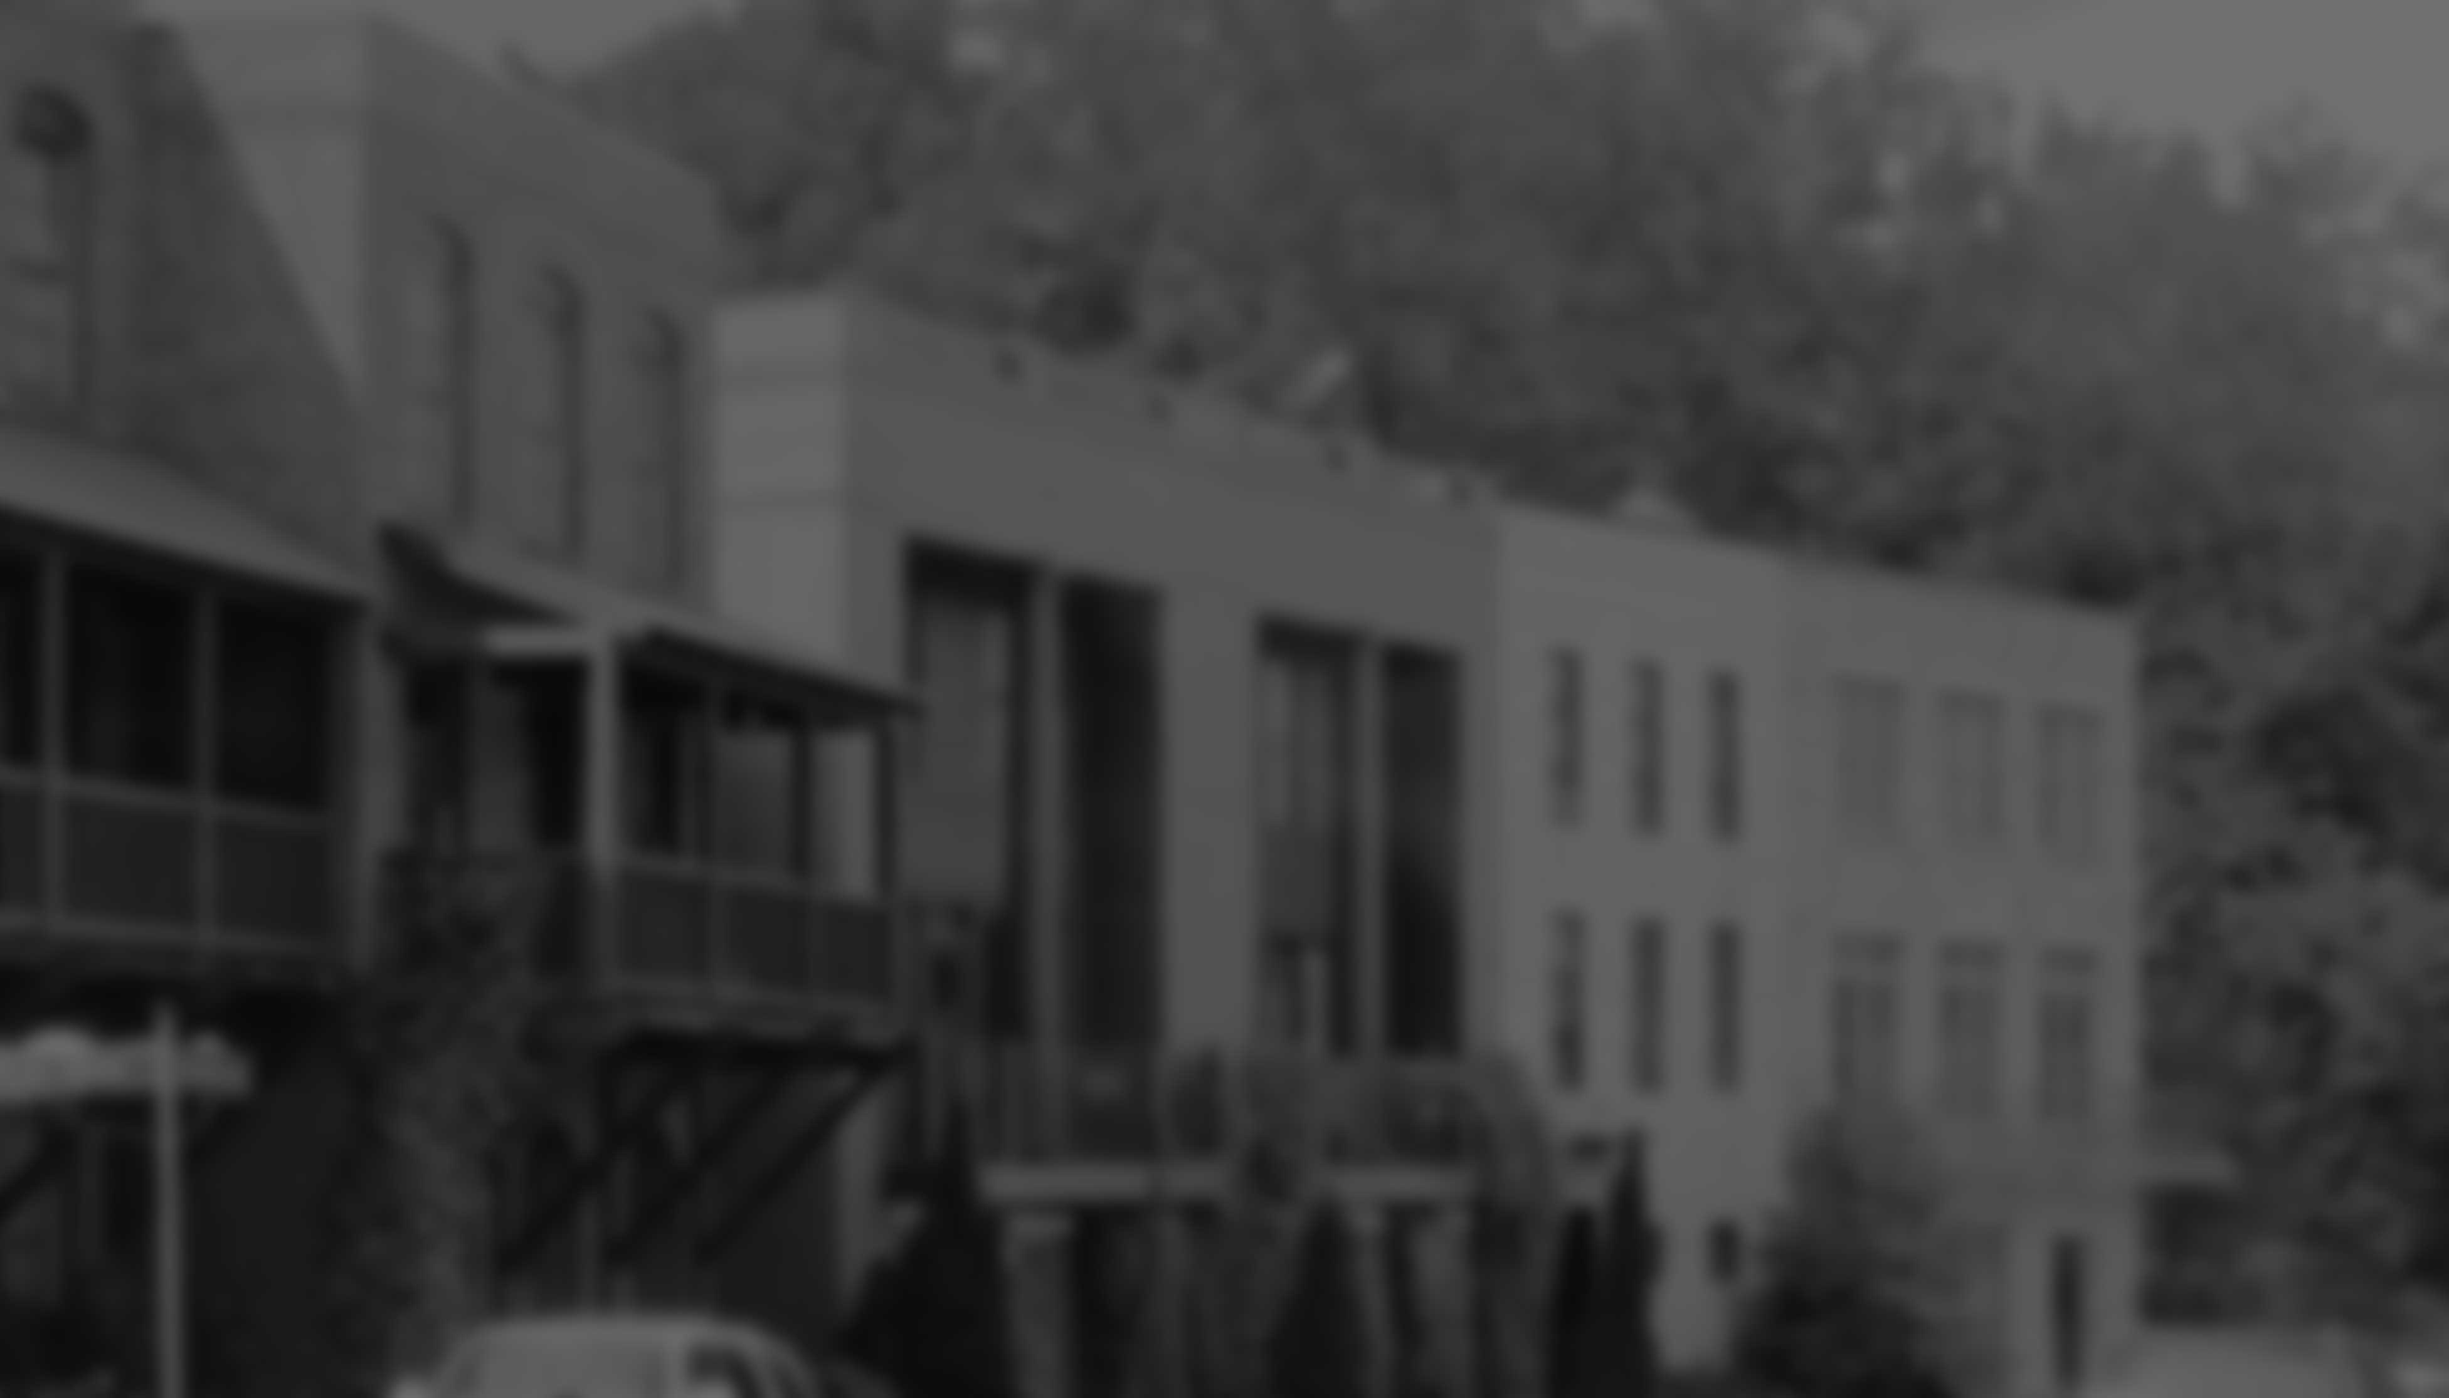
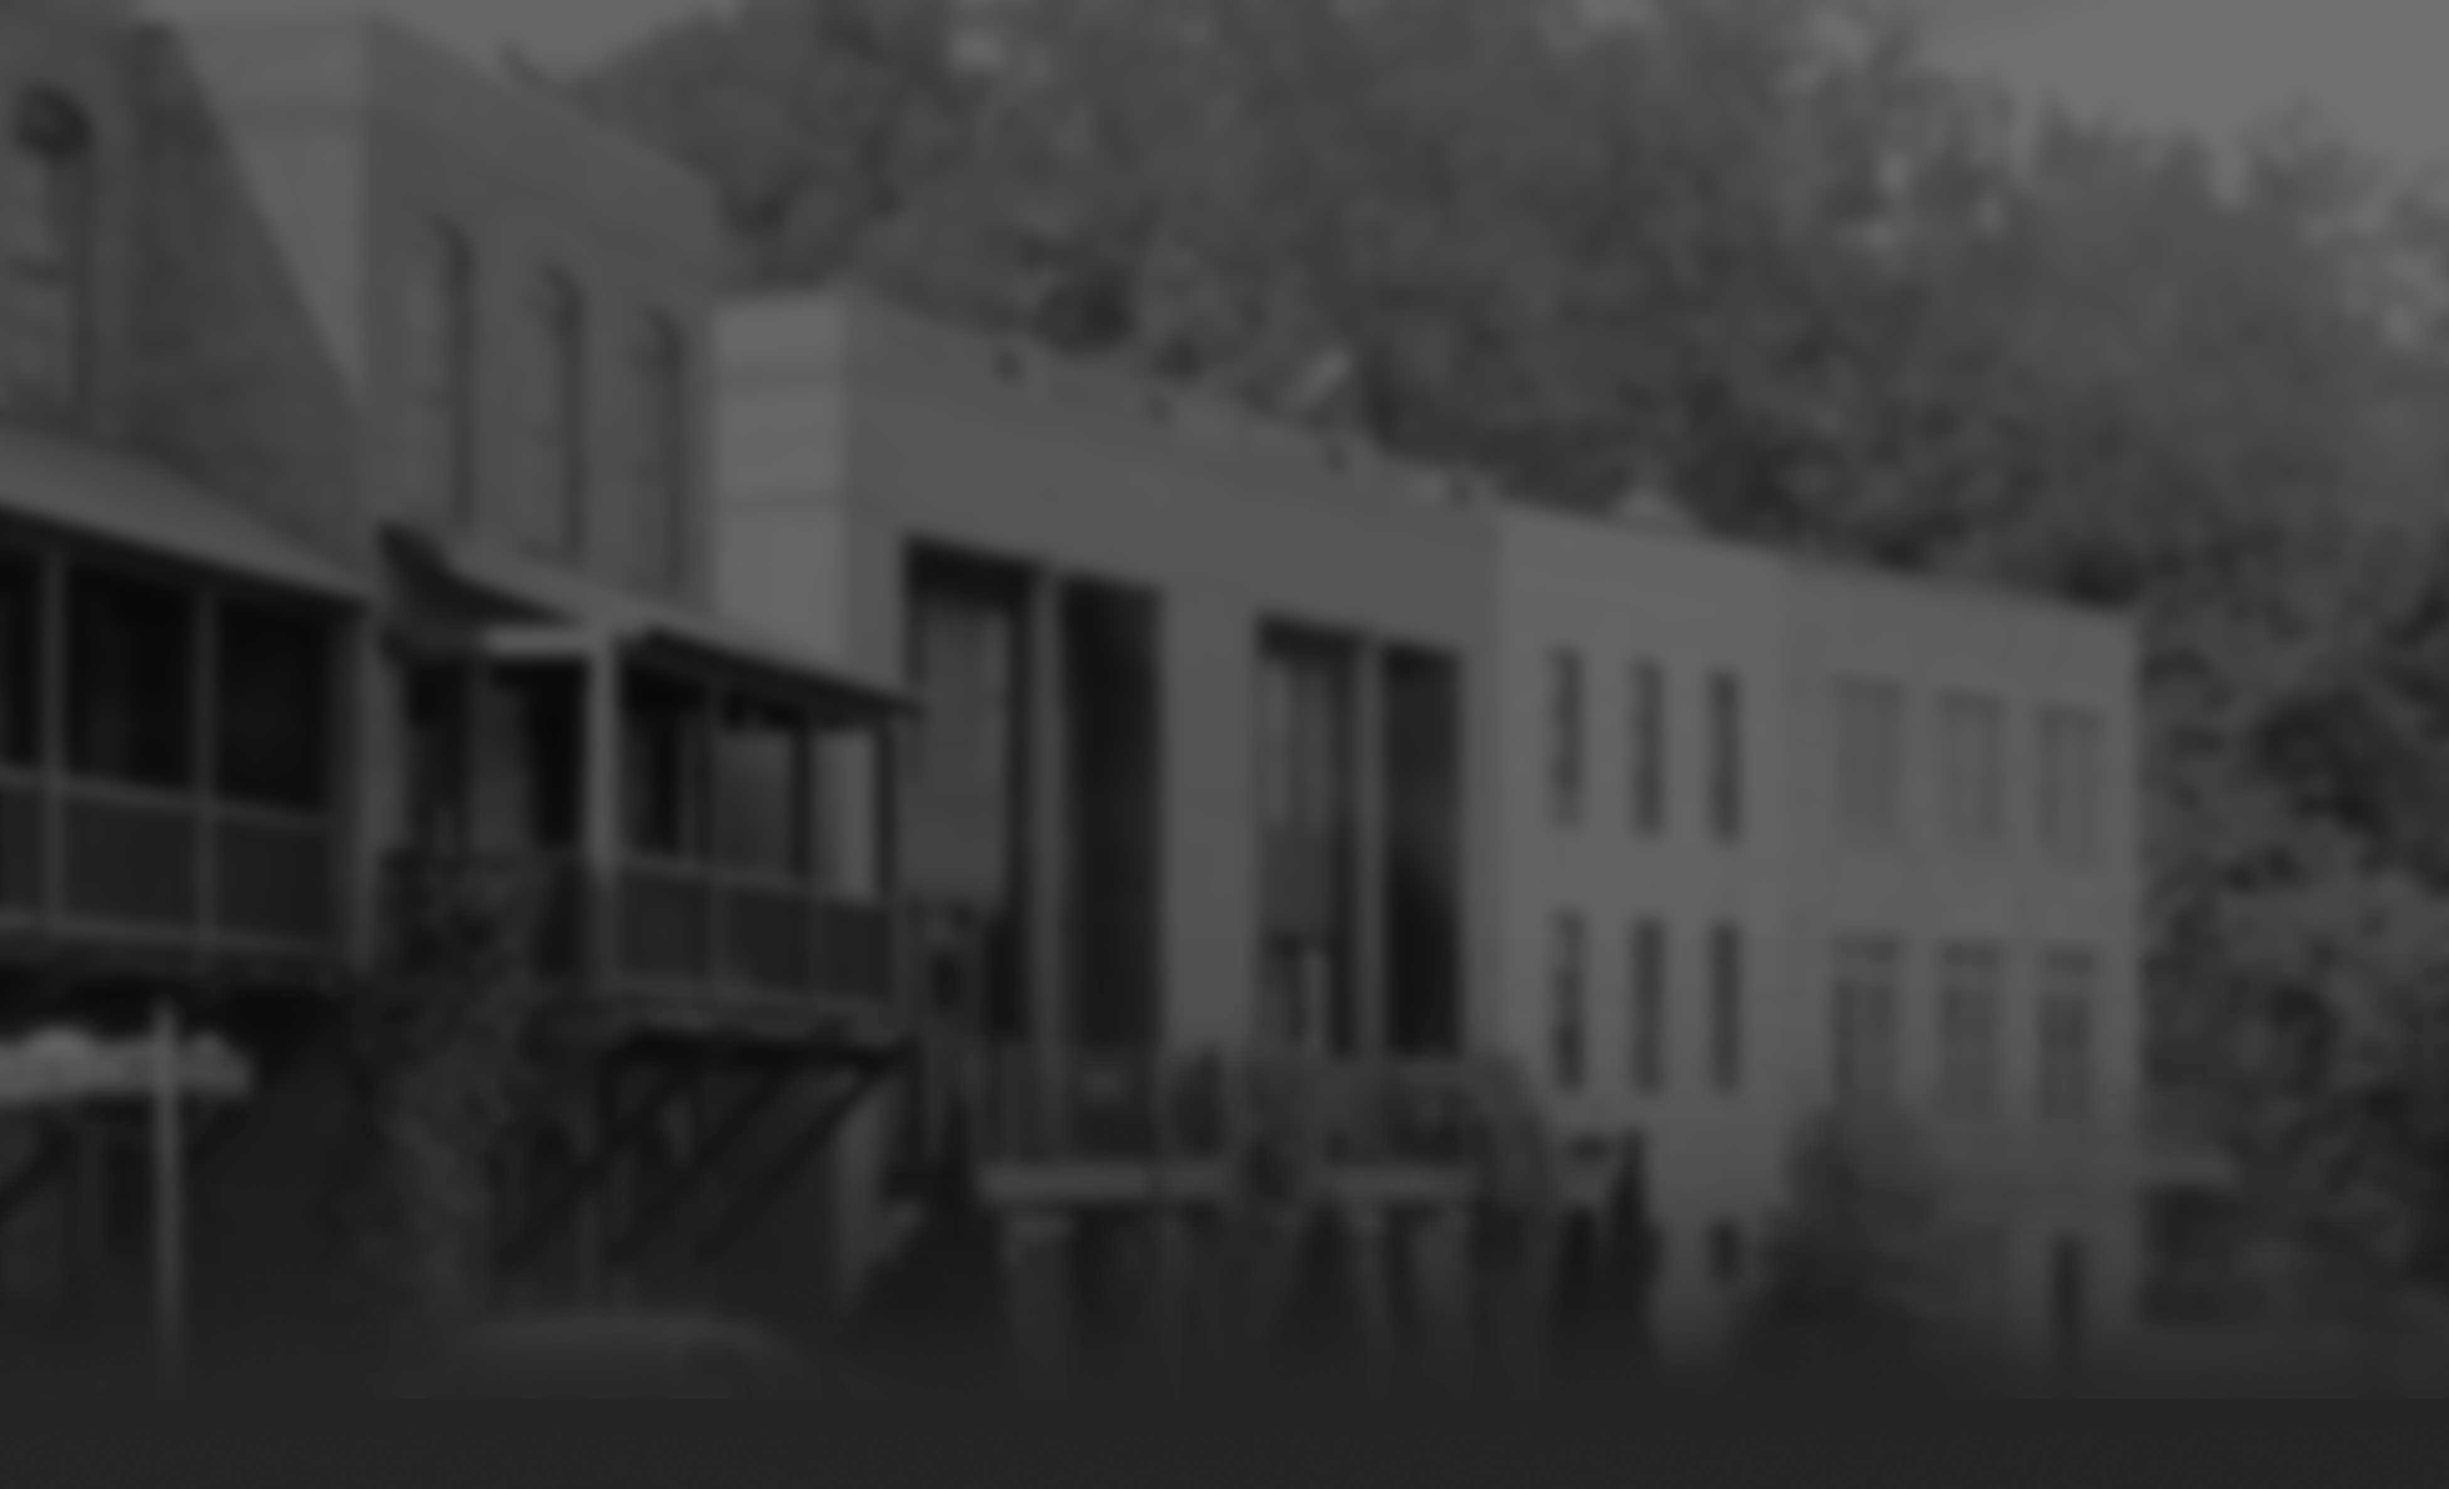
fixed viewport and layout of components and backgrounds

diff --git a/client/src/components/Base.jsx b/client/src/components/Base.jsx
@@ -7,7 +7,7 @@ import Auth from '../modules/Auth';
 
 const Base = ({ children }) => (
 
-  <div className="container">
+  <div>
 
     <Navbar inverse collapseOnSelect>
       <Navbar.Header>
@@ -24,7 +24,7 @@ const Base = ({ children }) => (
             </LinkContainer>
           )}
         </Nav>
-        <Nav pullRight style={{marginRight: '10px'}}>
+        <Nav pullRight>
           {Auth.isUserAuthenticated() && (
             <LinkContainer to="/logout">
               <NavItem eventKey={1}>Log Out</NavItem>
@@ -50,9 +50,10 @@ const Base = ({ children }) => (
 
 
 
-
-    <div className="jumbotron">
-      {children}
+    <div className="container">
+      <div className="jumbotron">
+        {children}
+      </div>
     </div>
   </div>
 );

diff --git a/client/stylesheets/base/_base.scss b/client/stylesheets/base/_base.scss
@@ -1,4 +1,12 @@
 body{
-  background: url(/images/serenbe-large-blur.jpg) no-repeat;
-  background-size: 150%;
+  background: #333333 url(/images/serenbe-mobile-blur.jpg) no-repeat center center fixed;
+  background-size: 120%;
+}
+
+/* Small Devices, Tablets */
+@media only screen and (min-width : 768px) {
+  body{
+    background: #222222 url(/images/serenbe-large-blur.jpg) no-repeat center center fixed;
+    background-size: 130%;
+  }
 }

diff --git a/client/src/containers/MembershipPage.jsx b/client/src/containers/MembershipPage.jsx
@@ -28,7 +28,7 @@ class MembershipPage extends Component {
         <h2 className="text-center">Members</h2>
         <Grid>
           <Row className="show-grid">
-            <Col xs={6} md={4}>
+            <Col xs={12} md={4}>
               <MemberList members={members} onSelectItem={(member) => this.handleMemberItemSelection(member)} selectedMemberId={selectedMemberId}/>
             </Col>
             <Col xs={12} md={8}>

diff --git a/server/static/index.html b/server/static/index.html
@@ -2,9 +2,9 @@
 <html>
 <head>
   <meta charset="utf-8">
+  <meta name="viewport" content="width=device-width, initial-scale=1">
   <title>React App</title>
   <link rel="stylesheet" href="https://maxcdn.bootstrapcdn.com/bootstrap/latest/css/bootstrap.min.css">
-  <xlink rel="stylesheet" href="/css/style.css">
 </head>
 <body>
   <div id="react-app"></div>

diff --git a/client/src/components/membership/MemberList.jsx b/client/src/components/membership/MemberList.jsx
@@ -24,7 +24,7 @@ export default class MemberList extends Component {
         border: '1px solid #00bcd4'
       },
       listStyle: {
-        maxHeight: 320,
+        maxHeight: 300,
         overflow: 'scroll'
       }
     };

diff --git a/client/stylesheets/layout/_header.scss b/client/stylesheets/layout/_header.scss
@@ -25,7 +25,3 @@ nav li a:hover {
 ul.navbar-right {
   margin-right: 10px;
 }
-
-body{
-  background-color: #888888;
-}
